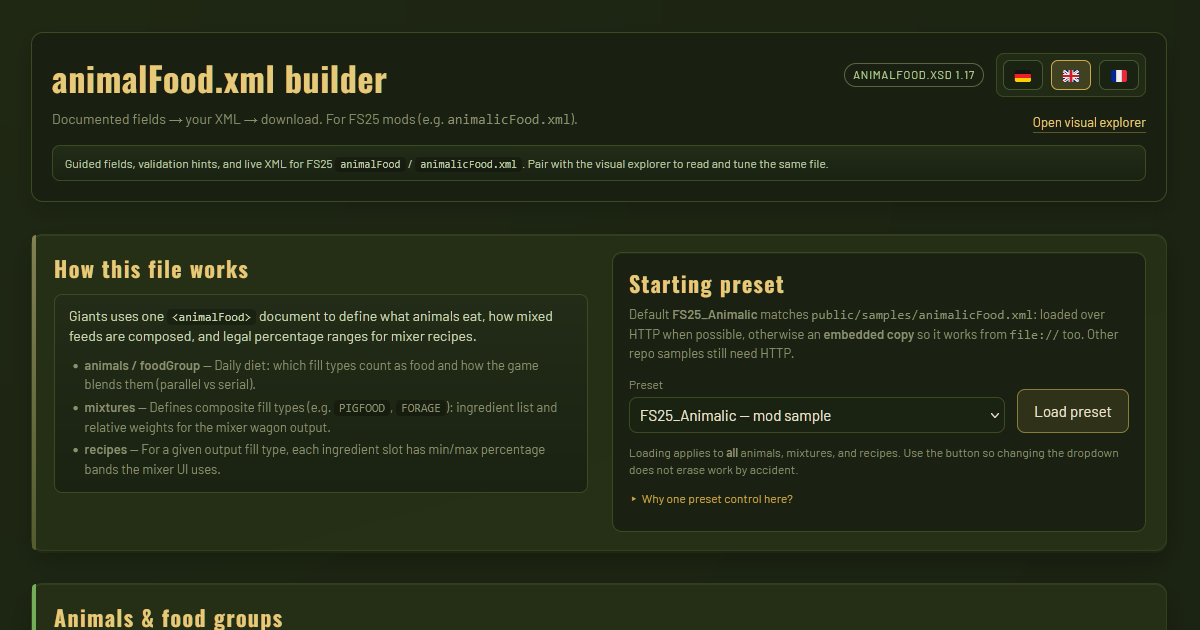
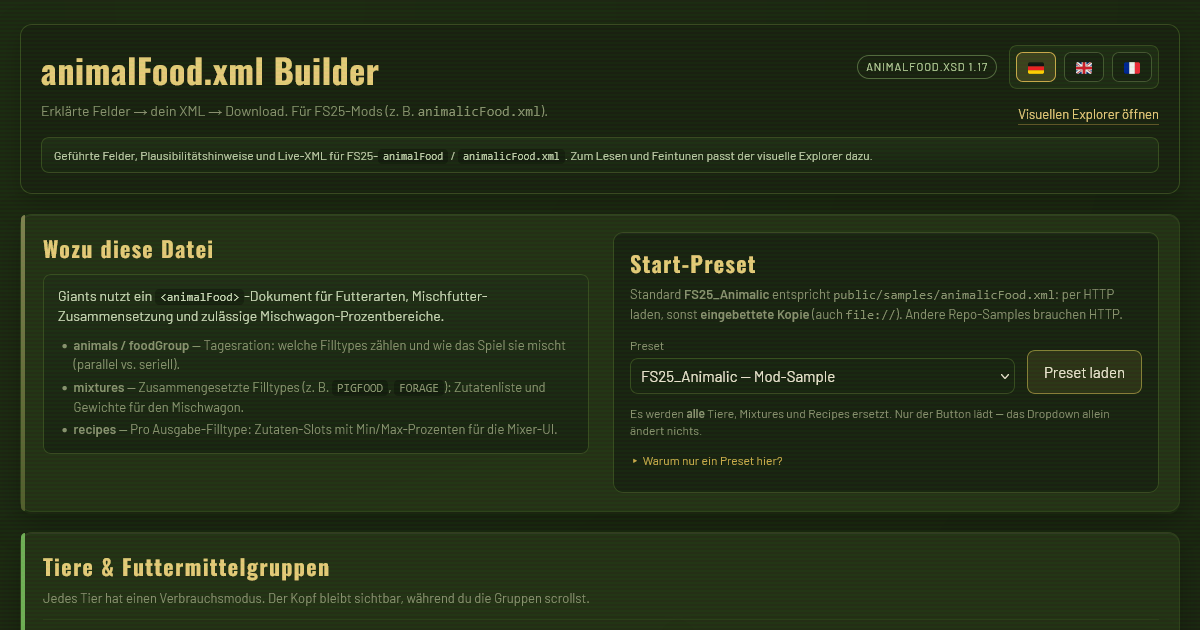
FS25 explorer and builder: grid parity, locale-aware language UI, lang chrome above CRT; refresh OG assets; update project docs
Made-with: Cursor

Changed region(s): [[0.0, 0.0302, 0.9867, 1.0], [0.5242, 0.7841, 0.6783, 0.8143], [0.8633, 0.8746, 0.925, 0.9048]]

diff --git a/public/fs25_animalic_food.html b/public/fs25_animalic_food.html
@@ -96,6 +96,10 @@
     padding: clamp(12px, 2.5vw, 20px);
     margin-bottom: 0;
     box-shadow: 0 8px 24px rgba(0, 0, 0, .22);
+    /* Above body::after CRT (z-index 50) — avoids compositor bugs where controls under fixed overlays fail to paint. */
+    position: relative;
+    z-index: 55;
+    isolation: isolate;
   }
   .title-row { display: flex; flex-wrap: wrap; gap: 10px 16px; align-items: flex-start; justify-content: space-between; }
   .title-main { min-width: min(100%, 280px); flex: 1; }
@@ -180,28 +184,48 @@
     align-items: center;
     justify-content: center;
     gap: 8px;
+    flex-shrink: 0;
     border-radius: 8px;
     border: 1px solid var(--border);
     background: #202a15;
     padding: 6px;
   }
+  /* Plain DE/EN/FR — native button styles can hide labels on some platforms; force cosmetic + contrast. */
   .lang-btn {
-    min-width: 40px;
-    height: 30px;
+    -webkit-appearance: none;
+    appearance: none;
+    display: inline-flex;
+    align-items: center;
+    justify-content: center;
+    flex-shrink: 0;
+    box-sizing: border-box;
+    min-width: 48px;
+    min-height: 32px;
+    padding: 6px 12px;
     border-radius: 7px;
-    border: 1px solid #465632;
-    background: #1a2212;
+    border: 1px solid color-mix(in srgb, var(--gold-soft) 35%, var(--border));
+    background: linear-gradient(180deg, #232d18, #1a2212);
     color: var(--text);
-    font-size: 16px;
-    line-height: 1;
+    font-family: 'Barlow', system-ui, sans-serif;
+    font-size: 13px;
+    font-weight: 700;
+    letter-spacing: 0.14em;
+    text-transform: uppercase;
+    line-height: 1.2;
     cursor: pointer;
-    padding: 0;
-    transition: border-color .16s ease, transform .16s ease, background .16s ease;
+    box-shadow: inset 0 1px 0 rgba(255, 255, 255, .06);
+    transition: border-color .16s ease, transform .16s ease, background .16s ease, color .16s ease;
   }
-  .lang-btn:hover { border-color: var(--gold); transform: translateY(-1px); }
+  .lang-btn:hover {
+    border-color: var(--gold);
+    color: var(--gold-soft);
+    transform: translateY(-1px);
+  }
   .lang-btn.is-active {
     border-color: var(--gold);
-    background: rgba(200, 168, 75, .18);
+    background: rgba(200, 168, 75, .22);
+    color: var(--gold-soft);
+    box-shadow: inset 0 0 0 1px rgba(200, 168, 75, .25);
   }
   .btn, .file-label { cursor: pointer; transition: border-color .18s ease, transform .18s ease, background .18s ease; }
   .btn:hover, .file-label:hover { border-color: var(--gold); transform: translateY(-1px); }
@@ -227,7 +251,7 @@
   .status.warn { border-color: color-mix(in srgb, var(--warn) 45%, var(--border)); }
   .status.error { border-color: color-mix(in srgb, var(--error) 45%, var(--border)); }
   .grid { display: grid; grid-template-columns: 1fr; gap: 14px; }
-  @media (min-width: 920px) { .grid.grid-two { grid-template-columns: 1.15fr 1fr; } }
+  @media (min-width: 920px) { .grid.grid-two { grid-template-columns: repeat(2, minmax(0, 1fr)); } }
   .panel {
     background: var(--card);
     border: 1px solid var(--border);
@@ -253,7 +277,7 @@
   }
   @container animal-panel (min-width: 520px) {
     .animals {
-      grid-template-columns: minmax(0, 1.14fr) minmax(0, 0.86fr);
+      grid-template-columns: repeat(2, minmax(0, 1fr));
     }
   }
   .animal {
@@ -1242,9 +1266,9 @@
           <div class="title-meta-row">
             <span class="pill" id="schema-pill">animalFood.xsd 1.17</span>
             <div class="lang-switch" role="group" aria-label="Language">
-              <button type="button" class="lang-btn" data-lang="de" title="Deutsch" lang="de">🇩🇪</button>
-              <button type="button" class="lang-btn" data-lang="en" title="English" lang="en">🇬🇧</button>
-              <button type="button" class="lang-btn" data-lang="fr" title="Français" lang="fr">🇫🇷</button>
+              <button type="button" class="lang-btn" data-lang="de" title="Deutsch" lang="de">DE</button>
+              <button type="button" class="lang-btn" data-lang="en" title="English" lang="en">EN</button>
+              <button type="button" class="lang-btn" data-lang="fr" title="Français" lang="fr">FR</button>
             </div>
           </div>
           <a id="builder-link" href="fs25_animalic_food_builder.html" class="explorer-builder-link"></a>
@@ -1635,7 +1659,30 @@
   };
 
   const FALLBACK_BALE_LITERS = 5500;
-  const STATE = { lang: 'de', data: null, calc: { mode: 'bulk', selectedRecipe: '', targetLiters: 45000, ingredientConfig: {}, bulkLiters: {}, bulkLocks: {}, bulkLockValues: {}, uploadedBaleRows: [], draggingBoundary: null, activeBaleIngredientIdx: null } };
+  const UI_LANG_KEYS = /** @type {const} */ (['de', 'en', 'fr']);
+  const EXPLORER_LANG_STORAGE = 'fs25-explorer-lang';
+  function detectBrowserUiLangPicker() {
+    try {
+      const langs = typeof navigator !== 'undefined' && navigator.languages && navigator.languages.length
+        ? navigator.languages
+        : [navigator.language || ''];
+      const set = new Set(UI_LANG_KEYS);
+      for (const tag of langs) {
+        const base = String(tag || '').split('-')[0].toLowerCase();
+        if (set.has(base)) return base;
+      }
+    } catch (_) {}
+    return null;
+  }
+  function readInitialExplorerLang() {
+    try {
+      const stored = localStorage.getItem(EXPLORER_LANG_STORAGE);
+      if (stored && UI_LANG_KEYS.includes(stored)) return stored;
+    } catch (_) {}
+    return detectBrowserUiLangPicker() || 'de';
+  }
+
+  const STATE = { lang: readInitialExplorerLang(), data: null, calc: { mode: 'bulk', selectedRecipe: '', targetLiters: 45000, ingredientConfig: {}, bulkLiters: {}, bulkLocks: {}, bulkLockValues: {}, uploadedBaleRows: [], draggingBoundary: null, activeBaleIngredientIdx: null } };
   const el = {
     file: document.getElementById('xml-file'),
     sampleBtn: document.getElementById('sample-btn'),
@@ -2714,6 +2761,7 @@
   }
 
   function applyUiLanguage() {
+    document.documentElement.lang = STATE.lang;
     syncSampleSelectI18n();
     el.appTitle.textContent = t('appTitle');
     el.appSubtitle.textContent = t('appSubtitle');
@@ -3105,6 +3153,9 @@
   el.langButtons.forEach((btn) => {
     btn.addEventListener('click', () => {
       STATE.lang = btn.getAttribute('data-lang') || 'de';
+      try {
+        localStorage.setItem(EXPLORER_LANG_STORAGE, STATE.lang);
+      } catch (_) {}
       applyUiLanguage();
       if (!STATE.data) setStatus(t('ready'));
     });

diff --git a/public/fs25_animalic_food_builder.html b/public/fs25_animalic_food_builder.html
@@ -113,6 +113,9 @@
     border-radius: 12px;
     padding: clamp(12px, 2.5vw, 20px);
     box-shadow: 0 8px 24px rgba(0, 0, 0, 0.22);
+    position: relative;
+    z-index: 55;
+    isolation: isolate;
   }
   .title-row {
     display: flex;
@@ -321,7 +324,7 @@
   }
   @container animal-panel (min-width: 520px) {
     .animals-editor {
-      grid-template-columns: minmax(0, 1.14fr) minmax(0, 0.86fr);
+      grid-template-columns: repeat(2, minmax(0, 1fr));
     }
   }
   .animal {
@@ -574,28 +577,47 @@
     align-items: center;
     justify-content: center;
     gap: 8px;
+    flex-shrink: 0;
     border-radius: 8px;
     border: 1px solid var(--border);
     background: #202a15;
     padding: 6px;
   }
   .lang-btn {
-    min-width: 40px;
-    height: 30px;
+    -webkit-appearance: none;
+    appearance: none;
+    display: inline-flex;
+    align-items: center;
+    justify-content: center;
+    flex-shrink: 0;
+    box-sizing: border-box;
+    min-width: 48px;
+    min-height: 32px;
+    padding: 6px 12px;
     border-radius: 7px;
-    border: 1px solid #465632;
-    background: #1a2212;
+    border: 1px solid color-mix(in srgb, var(--gold-soft) 35%, var(--border));
+    background: linear-gradient(180deg, #232d18, #1a2212);
     color: var(--text);
-    font-size: 16px;
-    line-height: 1;
+    font-family: 'Barlow', system-ui, sans-serif;
+    font-size: 13px;
+    font-weight: 700;
+    letter-spacing: 0.14em;
+    text-transform: uppercase;
+    line-height: 1.2;
     cursor: pointer;
-    transition: border-color 0.16s ease, transform 0.16s ease, background 0.16s ease;
-    padding: 0;
+    box-shadow: inset 0 1px 0 rgba(255, 255, 255, 0.06);
+    transition: border-color 0.16s ease, transform 0.16s ease, background 0.16s ease, color 0.16s ease;
   }
-  .lang-btn:hover { border-color: var(--gold); transform: translateY(-1px); }
+  .lang-btn:hover {
+    border-color: var(--gold);
+    color: var(--gold-soft);
+    transform: translateY(-1px);
+  }
   .lang-btn.is-active {
     border-color: var(--gold);
-    background: rgba(200, 168, 75, 0.18);
+    background: rgba(200, 168, 75, 0.22);
+    color: var(--gold-soft);
+    box-shadow: inset 0 0 0 1px rgba(200, 168, 75, 0.25);
   }
   .intro-preset-grid {
     display: grid;
@@ -631,9 +653,9 @@
           <div class="title-meta-row">
             <span class="pill" id="i18n-pill">animalFood.xsd</span>
             <div class="lang-switch" role="group" aria-label="Language">
-              <button type="button" class="lang-btn" data-lang="de" title="Deutsch" lang="de">🇩🇪</button>
-              <button type="button" class="lang-btn" data-lang="en" title="English" lang="en">🇬🇧</button>
-              <button type="button" class="lang-btn" data-lang="fr" title="Français" lang="fr">🇫🇷</button>
+              <button type="button" class="lang-btn" data-lang="de" title="Deutsch" lang="de">DE</button>
+              <button type="button" class="lang-btn" data-lang="en" title="English" lang="en">EN</button>
+              <button type="button" class="lang-btn" data-lang="fr" title="Français" lang="fr">FR</button>
             </div>
           </div>
           <a href="fs25_animalic_food.html" id="i18n-explorer-link" class="builder-explorer-link">Open visual explorer</a>
@@ -1061,7 +1083,31 @@
     },
   };
 
-  let uiLang = localStorage.getItem('fs25-builder-lang') || 'en';
+  const BUILDER_LANG_STORAGE = 'fs25-builder-lang';
+
+  /**
+   * First matching `navigator.languages` prefix among de/en/fr; null if none.
+   */
+  function detectBrowserUiLangBuilder() {
+    try {
+      const langs = navigator.languages && navigator.languages.length ? navigator.languages : [navigator.language || ''];
+      const ok = new Set(['de', 'en', 'fr']);
+      for (const tag of langs) {
+        const base = String(tag || '').split('-')[0].toLowerCase();
+        if (ok.has(base)) return base;
+      }
+    } catch (_) {}
+    return null;
+  }
+
+  let uiLang = (() => {
+    try {
+      const stored = localStorage.getItem(BUILDER_LANG_STORAGE);
+      if (stored && I18N[stored]) return stored;
+    } catch (_) {}
+    const d = detectBrowserUiLangBuilder();
+    return (d && I18N[d] ? d : null) || 'en';
+  })();
   if (!I18N[uiLang]) uiLang = 'en';
 
   function t(key, params) {
@@ -1149,7 +1195,7 @@
   function setUiLang(code) {
     if (!I18N[code]) return;
     uiLang = code;
-    localStorage.setItem('fs25-builder-lang', code);
+    localStorage.setItem(BUILDER_LANG_STORAGE, code);
     applyStaticI18n();
     renderAll();
   }

diff --git a/PROJECT_STATE.md b/PROJECT_STATE.md
@@ -17,6 +17,12 @@
   - `/links/fs25_animalic_food.html` -> `public/og-animal-food-explorer.png` via in-file OG tags.
   - `/links/fs25_animalic_food_builder.html` -> `public/og-animal-food-builder.png` via in-file OG tags.
 
+## Checkpoint: 2026-04-14 — FS25 explorer + builder (grids, i18n chrome, locale)
+
+- **Equal-width grids:** Explorer **`.animals`** / builder **`.animals-editor`** and explorer **`.grid.grid-two`** (mixtures | recipes) use **`repeat(2, minmax(0, 1fr))`** — previous asymmetric `fr` tracks removed.
+- **Language switcher:** **DE / EN / FR** text only (no flag emoji — inconsistent across OS/fonts; regional indicators could read as a second “abbreviation”). **`appearance: none`**, higher-contrast button styling, **`flex-shrink: 0`**. **`.top`** header uses **`z-index: 55`** with **`isolation: isolate`** so the first card sits **above** the fixed **`body::after`** CRT layer (`z-index: 50`) and avoids some **desktop** compositor glitches; **mobile / published** often show controls fine either way.
+- **Default language:** Explorer: **`localStorage` `fs25-explorer-lang`**, else first supported match from **`navigator.languages`**, else **`de`**; choice persisted on click. Builder: **`fs25-builder-lang`**, else browser locale, else **`en`**. Explorer sets **`document.documentElement.lang`** in `applyUiLanguage()`.
+
 ## Checkpoint: 2026-04-13 — FS25 `fs25_animalic_food.html` (bulk mixer UX + legend)
 
 - **Bulk liters math:** Min/max from recipe % use **float liter bounds** (not rounded-to-integer bands) for clamping and redistribution. **`projectToBoundsWithSum`** converges to ~**1e-3 L** instead of 0.5 L steps.
@@ -43,9 +49,9 @@ Stable handoff state for the standalone explorer (animals UI, samples, no mislea
 
 - **PARALLEL** animals: top stack bar (shares of production mix), aligned **narrow** tint bands on food-group rows (`fg-row--parallel`, 7% mix), eat % + totals + warn if weights ≠ 1.0.
 - **SERIAL** animals: **no** top stack bar; each food group uses **left-aligned** tint whose **width** = `productionWeight / max(productionWeight)` in that animal; **opacity** of tint scales with the same norm (stronger than parallel). Footer explains SERIAL semantics (no eatWeight; not a 100% total).
-- **Animal card grid**: container query on `.main-panel--animals` — from ~520px panel width, **two columns** with **1.14fr / 0.86fr** (alternating wide/narrow tracks).
+- **Animal card grid**: container query on `.main-panel--animals` — from ~520px panel width, **two equal columns** (`repeat(2, minmax(0, 1fr))`).
 - **Samples**: fetch `public/samples/*.xml` when served over HTTP; **embedded fallbacks** for **animalic**, **vanilla**, **Mittellandkanal**, **Harterleiten** (same content as repo samples). Embed path uses normal **ok** status (no yellow “could not fetch” warning). Regenerate map embeds: `node scripts/inject-embed-samples.mjs`.
-- **Reverted**: page-level 1/2/3 column control for main panels (restored classic layout: full-width animals, `grid-two` mixtures|recipes ≥920px, full-width calculator).
+- **Reverted**: page-level 1/2/3 column control for main panels (restored classic layout: full-width animals, **equal-column** `grid-two` mixtures|recipes ≥920px, full-width calculator).
 
 ## FS25 Explorer: Implemented Capabilities
 
@@ -92,6 +98,7 @@ See **[FS25_BALE_CALC_MODULE.md](FS25_BALE_CALC_MODULE.md)** for design decision
 
 - Bale module: optional polish (bar/overlay readability on narrow widths, compact “all ingredients” summary if desired).
 - Bulk: optional debounced live input if commit-on-blur is too passive for some users; very narrow viewports may see combo-legend pill overlap (ellipsis + title mitigate).
+- FS25 i18n bar: if one **desktop** build looks like missing lang controls, try **hard refresh** or **mobile** / **published** — can be environment-specific; **`.top` z-index** above CRT mitigates most cases.
 
 ## Important Files
 

diff --git a/CONTEXT_CHEATSHEET.md b/CONTEXT_CHEATSHEET.md
@@ -39,8 +39,9 @@ See **[DEVELOPMENT_WORKFLOW.md](DEVELOPMENT_WORKFLOW.md)** for the full suggeste
 - DE/EN/FR language switch + sample picker (**animalic**, **vanilla**, **Mittellandkanal**, **Harterleiten**); all four have **in-page embedded XML** if fetch fails (no scare warning — status stays **ok** with snapshot label)
 - Renders animals / food groups / mixtures / recipes
 - **PARALLEL** animals: top **stack bar** + narrow aligned row tints; **SERIAL**: **no** stack bar; row tint **width** = `productionWeight / max(weight)` for that animal (left-aligned)
-- Tiere panel: **container query** → two-column animal cards with **1.14fr / 0.86fr** when panel ≥ ~520px
-- Main layout: full-width animals; **mixtures | recipes** two-column from 920px; full-width calculator (no 1/2/3 column experiment)
+- Tiere panel: **container query** → **equal** two-column animal cards when panel ≥ ~520px
+- Main layout: full-width animals; **mixtures | recipes** **equal** two-column (`grid-two`) from 920px; full-width calculator (no 1/2/3 column experiment)
+- **i18n:** **DE/EN/FR** text buttons (not flag emoji); default language from **`navigator.languages`** with **`localStorage`** override (explorer `fs25-explorer-lang`, builder `fs25-builder-lang`); first header **`.top`** card stacked **above** CRT scanline layer for reliable control paint
 - Includes dual calculators (recipe-based):
   - **Bulk goods mode**
   - **Bales mode**
@@ -99,4 +100,4 @@ See **[DEVELOPMENT_WORKFLOW.md](DEVELOPMENT_WORKFLOW.md)** for the full suggeste
 
 ## Quick Resume Prompt
 
-"Resume from `CONTEXT_CHEATSHEET.md` + **PROJECT_STATE.md** (checkpoints **2026-04-10** explorer, **2026-04-11** builder, **2026-04-12** bale module, **2026-04-13** bulk mixer + legend). Explorer bales UX: **FS25_BALE_CALC_MODULE.md**. Bulk mode: float bounds, input commit + redistribute, rail-aligned accents + legend pills. Builder: **FS25_ANIMALIC_FOOD_BUILDER.md** + `public/fs25_animalic_food_builder.html` — sticky UX is **per card** only; section heads are `.panel-section-head` (not sticky). Keep `public/samples/*.xml` in sync with embedded map XML when changing Mittelland/Harterleiten (run `node scripts/inject-embed-samples.mjs`)."
+"Resume from `CONTEXT_CHEATSHEET.md` + **PROJECT_STATE.md** (checkpoints through **2026-04-14** — grids + i18n chrome + locale; **2026-04-13** bulk + legend; **2026-04-12** bale module; **2026-04-11** builder; **2026-04-10** explorer). Explorer bales UX: **FS25_BALE_CALC_MODULE.md**. Bulk: float bounds, redistribute on input, rail accents, handle-aligned legend. Builder: **FS25_ANIMALIC_FOOD_BUILDER.md**; lang + equal grids on both FS25 pages. Keep `public/samples/*.xml` in sync with embedded map XML when changing Mittelland/Harterleiten (run `node scripts/inject-embed-samples.mjs`)."
